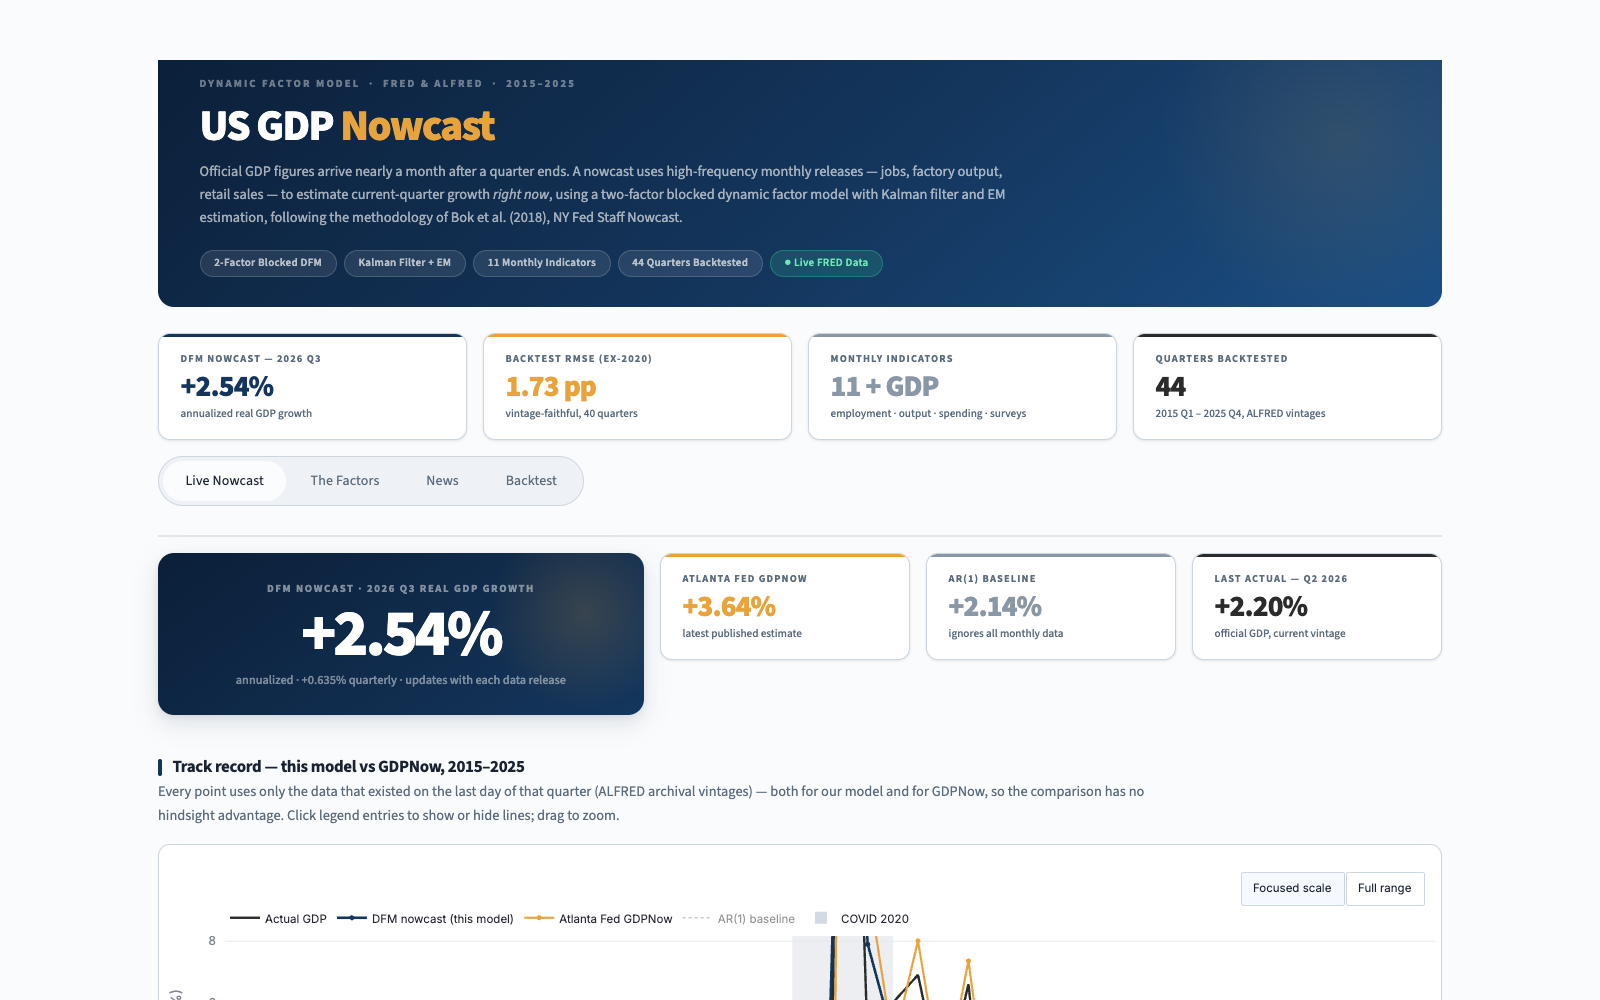
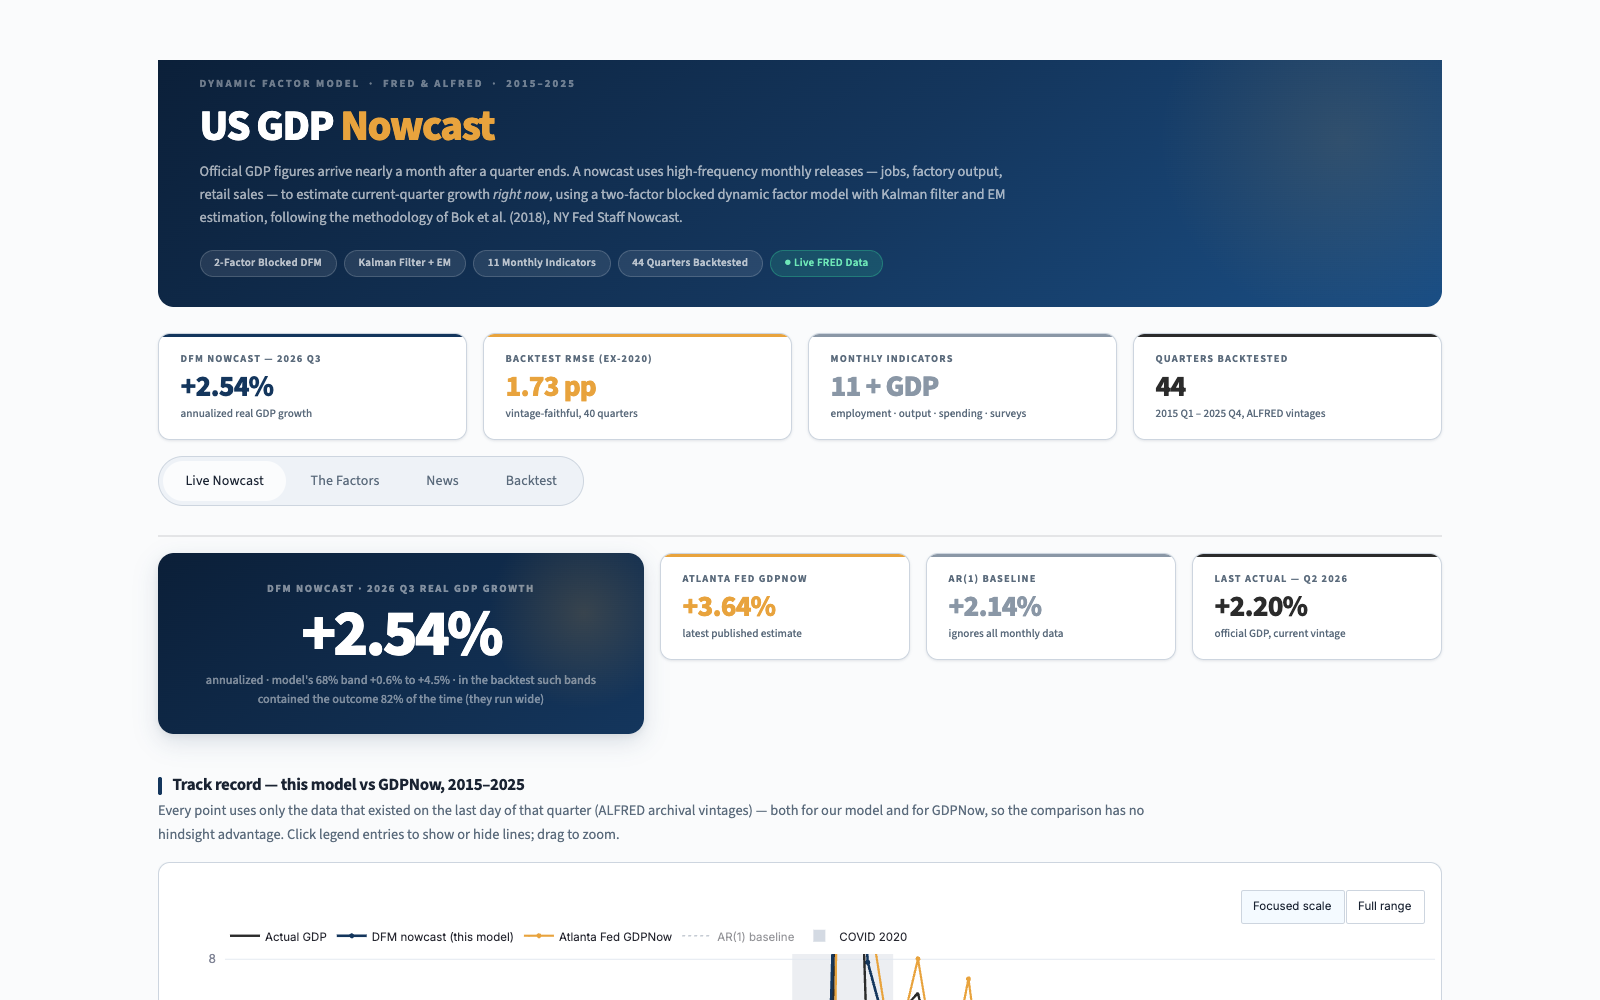
docs+app: lead results with accuracy-as-data-arrives and calibration
README: abstract and section 3 now open with the through-the-quarter
results (448 nowcasts) and the calibration analysis, with the by-period
split marked post-hoc; section 3 renumbered; vintage-reconstruction method
in 2.1; limitations updated (bands don't adapt; plateau by mid-quarter;
the third month adds little — now measured rather than assumed).
progress.md: Phase 8 results. CONTRIBUTING: steps 7-8.
App: hero band wording says which way the bands err; horizon chart drops
empty bins; screenshots regenerated.

diff --git a/app/streamlit_app.py b/app/streamlit_app.py
@@ -188,8 +188,9 @@ def _build_horizon_fig(hz: pd.DataFrame) -> go.Figure:
         r = sub.groupby("bin", observed=False).apply(
             lambda g: float(np.sqrt(((g[col] - g["first_release_ann"]) ** 2).mean()))
             if g[col].notna().sum() >= 10 else np.nan)
+        keep = r.notna().to_numpy()            # empty bins would still stretch the x-axis
         fig.add_trace(go.Scatter(
-            x=centers, y=r.values, name=name, mode="lines+markers",
+            x=centers[keep], y=r.values[keep], name=name, mode="lines+markers",
             line=dict(color=color, width=width), marker=dict(size=6),
             hovertemplate=f"{name}: %{{y:.2f}} pp<extra>%{{x:.0f}} days before release</extra>",
         ))
@@ -673,7 +674,9 @@ def _band_text(nowcast: dict) -> str:
         r = cal[(cal.model == "DFM 2-factor") & (cal.target == "first release")
                 & (cal["sample"] == "ex-2020") & (cal.horizon == "all horizons")]
         if len(r):
-            text += f" · such bands held {r['coverage_68'].iloc[0]:.0%} of the time historically"
+            cov = float(r["coverage_68"].iloc[0])
+            lean = "they run wide" if cov > 0.73 else "they run narrow" if cov < 0.63 else "about right"
+            text += f" · in the backtest such bands contained the outcome {cov:.0%} of the time ({lean})"
     return text
 
 

diff --git a/README.md b/README.md
@@ -15,7 +15,7 @@ Atlanta Fed's GDPNow and three simple real-time baselines.
 > one-step-ahead prediction rather than the smoother. The old headline
 > (RMSE 2.87 pp ex-2020, a "−2 pp vintage bias", "AR(1) wins in calm times")
 > is withdrawn. All numbers below come from the corrected code; the old and
-> new figures are compared side by side in §3.3.
+> new figures are compared side by side in §3.5.
 
 ---
 
@@ -45,6 +45,15 @@ direction of the collapse and rebound; with four such quarters that advantage
 is large (13.7 vs 22.8–36.3 pp RMSE) but not statistically significant. The
 Atlanta Fed's GDPNow, built on far more source data, is clearly more accurate
 (0.98 vs 1.77 pp against first-release GDP, p = 0.01).
+
+Re-running the evaluation **every two weeks through each quarter** (448
+nowcasts, each from that day's archived data) shows where the gap comes from:
+the DFM's error falls from 1.94 to 1.71 pp by mid-quarter and then plateaus,
+while GDPNow keeps improving to 1.02 pp as hard data for the quarter's final
+month arrives. The model's uncertainty bands turn out to be the most
+informative result: its 68% bands contain the outcome 82% of the time overall,
+but **91% in 2015–19, 73% in 2021–25 and 8% in 2020** — a constant-variance
+model is too cautious in calm years and badly overconfident in a crisis.
 
 ---
 
@@ -221,6 +230,14 @@ surveys) — payrolls, industrial production and retail sales for the third mont
 come out the following month. A quarter-end nowcast is therefore built mostly
 from two months of hard data.
 
+**Rebuilding vintages efficiently.** The through-the-quarter evaluation needs
+about 5,000 (series, date) vintages, and each direct ALFRED request takes ~2 s
+under a rate limit. Instead, each series' complete revision history is fetched
+once and the vintage on any date is rebuilt locally — the latest value
+published on or before it, keeping values ALFRED records as explicitly missing
+(e.g., data skipped during the 2025 shutdown). Checked against all 1,036
+vintages previously fetched directly: identical. 13 requests instead of ~5,000.
+
 **Two scoring targets.** Nowcasts are scored against both (a) today's revised
 GDP ("current vintage") and (b) GDP growth as first published — usually the
 advance estimate, ~30 days after the quarter; built from ALFRED using the
@@ -232,12 +249,85 @@ average (ex-2020), which shifts every model's measured bias by the same amount.
 
 ## 3. Results
 
+### 3.1 Accuracy as data arrives (through-the-quarter evaluation)
+
+A nowcast is updated continuously, so the standard way to judge one is how its
+accuracy improves as the quarter's data comes in. Each of the 44 quarters was
+nowcast every 14 days from its first day — plus on its last day — up to the day
+before its GDP was first published: **448 nowcasts**, each from the ALFRED
+vintage of that day (no look-ahead: every date precedes the release, and the
+quarter-end rows reproduce the §3.3 backtest exactly). The design was written
+into `docs/progress.md` before any results were computed.
+
+![Accuracy as data arrives](docs/figures/horizon_rmse.png)
+
+RMSE excluding 2020, scored against GDP as first published (annualized pp):
+
+| Days before GDP release | > 60 | 31–60 | 1–30 |
+|---|---:|---:|---:|
+| **DFM 2-factor (this model)** | **1.94** | **1.71** | **1.76** |
+| DFM 1-factor | 1.99 | 1.79 | 1.84 |
+| Robust AR(1) | 1.71 | 1.63 | 1.71 |
+| Expanding mean | 1.79 | 1.69 | 1.77 |
+| AR(1) | 1.81 | 1.79 | 1.88 |
+| GDPNow | 1.47 | 1.17 | 1.02 |
+| *DM p, DFM vs robust AR(1)* | *0.24* | *0.82* | *0.83* |
+| *DM p, DFM vs GDPNow* | *0.08* | *0.05* | *0.02* |
+
+Diebold–Mariano tests average each quarter's losses first, because several
+nowcasts of the same quarter fall in each window and are not independent.
+Full grid (both targets, both samples): `data/horizon_accuracy.csv`,
+`data/horizon_tests.csv`.
+
+**What it shows.** The DFM gains most of its accuracy by mid-quarter (early in
+the quarter it must forecast two quarters ahead, since the previous quarter's
+GDP isn't out yet) and then stops improving — consistent with §3.4: the hard
+data for the quarter's last month adds little to this model. GDPNow's error
+keeps falling, to 1.02 pp, and its advantage is significant in the last two
+windows. At no horizon does the DFM significantly beat the simple baselines.
+
+### 3.2 Are the uncertainty bands honest?
+
+Each nowcast comes with a standard error from the Kalman smoother, giving 68%
+and 90% bands (these ignore uncertainty in the estimated parameters). A
+calibrated 68% band contains the outcome about 68% of the time.
+
+| Excluding 2020, first-release target | 68% band contained outcome | 90% band | Typical band (±pp) | CRPS |
+|---|---:|---:|---:|---:|
+| > 60 days before release | 85% | 98% | 2.56 | 1.04 |
+| 31–60 days | 80% | 94% | 1.83 | 0.90 |
+| 1–30 days | 79% | 93% | 1.72 | 0.92 |
+| **All horizons** | **82%** | **96%** | 2.16 | 0.98 |
+
+The pre-registered expectation was that the bands would be *too narrow*; they
+are too *wide* overall. A follow-up split by period (post-hoc — chosen after
+seeing the results, `data/calibration_by_period.csv`) explains why:
+
+| Period | Typical band (±pp) | Actual RMSE | 68% band held | 90% band held |
+|---|---:|---:|---:|---:|
+| 2015–2019 | 1.52 | 0.95 | 91% | 100% |
+| 2020 | 2.04 | 15.41 | 8% | 10% |
+| 2021–2025 | 2.78 | 2.41 | 73% | 92% |
+
+The model assumes one fixed level of noise, estimated from its whole sample.
+Before 2020 that sample includes the 2008 recession, so calm-period bands are
+too wide; in 2020 the bands could not widen for an unprecedented shock; after
+2020, with COVID in the sample, they roughly double and become about right.
+This is the standard argument for adding **stochastic volatility** to
+nowcasting models — a natural next step for this project.
+
+![Nowcast path, most recent quarter](docs/figures/fan_chart_example.png)
+
+*Example: how the 2025 Q4 nowcast evolved (chosen by rule: the most recent
+quarter, not the best-looking one). The flat stretch in October–November is the
+2025 government shutdown, when no new monthly data was published.*
+
 Out-of-sample evaluation covers **44 quarters, 2015 Q1 – 2025 Q4**, each nowcast
 made from that quarter's end-of-quarter ALFRED vintage. Results are reported
 both with and without the four 2020 COVID quarters — leaving the catastrophic
 quarters in is part of the point, not something to cherry-pick around.
 
-### 3.1 Real-time accuracy vs. benchmarks
+### 3.3 Quarter-end accuracy vs. benchmarks
 
 All benchmarks use only the GDP data published by each evaluation date:
 **AR(1)** (OLS, the original baseline), **Robust AR(1)** (Huber regression, so
@@ -310,7 +400,7 @@ Full grid (both targets, both DFM specs): `data/evaluation_tests.csv`.
    two-factor model because it was the design chosen before the backtest;
    switching on the basis of these results would be selecting on the test set.
 
-### 3.2 Two diagnostics
+### 3.4 Two diagnostics
 
 **How much is just timing?** `scripts/diagnose_information_timing.py`
 re-estimates each quarter from the *next* quarter-end vintage, when all three
@@ -327,7 +417,7 @@ so part of each nowcast is carried-over GDP dynamics rather than new monthly
 information. This is a specification question, left for future work rather
 than tuned against the backtest.
 
-### 3.3 Before and after the October 2026 fix
+### 3.5 Before and after the October 2026 fix
 
 2-factor model, current-vintage target. The middle column scores the old
 nowcasts against today's GDP to separate the fix from GDP revisions since June.
@@ -355,7 +445,7 @@ differently. All are fixed and covered by regression tests that fail on the old
 code (`tests/test_dfm.py::TestExtractNowcastRealFit`,
 `tests/test_news.py::TestNewsIntegration`).
 
-### 3.4 Charts
+### 3.6 Charts
 
 The Streamlit dashboard renders these interactively; static versions live in
 [`docs/figures/`](docs/figures/).
@@ -413,6 +503,8 @@ python scripts/run_phase4_backtest.py           # 1-factor → data/backtest_res
 python scripts/run_phase4_backtest_2factor.py   # 2-factor → data/backtest_results_2factor.csv
 python scripts/evaluate_backtest.py             # scorecard → data/evaluation_*.csv
 python scripts/precompute_news_example.py       # dashboard's worked news example
+python scripts/run_horizon_backtest.py          # 448 through-the-quarter nowcasts (~15 min)
+python scripts/evaluate_horizon.py              # horizon accuracy, calibration, figures
 ```
 
 The first run downloads ~530 ALFRED vintage files (rate-limited, with
@@ -438,17 +530,20 @@ scripts/     backtests, evaluation, diagnostics, data prep, screenshots
 
 ## 5. Limitations
 
+- **Uncertainty bands don't adapt.** They are too wide in calm periods and far
+  too narrow in 2020 (§3.2); the model has a single, constant noise level.
+- **Accuracy plateaus by mid-quarter**, while GDPNow keeps improving (§3.1).
 - **No demonstrated edge in normal times.** Ex-2020 the DFM is statistically
-  indistinguishable from a robust AR(1) or the historical mean (§3.1), and
+  indistinguishable from a robust AR(1) or the historical mean (§3.3), and
   GDPNow is significantly better.
 - **2020 is both its best and worst period.** The worst miss is 2020 Q2 (nowcast
   −8.8% vs. actual −32.8%, a 24 pp error), yet it was the only model here to get
   the direction of 2020 right. Four quarters cannot establish a reliable edge.
-- **Quarter-end information set.** At the evaluation date only 2 of 11 series
-  are published for the quarter's third month, and the nowcast leans on the
-  previous quarter's data (§3.2). Nowcasts made later — after month-3 data but
-  before the GDP release — would be more accurate; this design doesn't
-  evaluate them.
+- **The third month adds little.** At quarter-end only 2 of 11 series have
+  third-month data, and the nowcast leans on the previous quarter's data
+  (§3.4). Nowcasts made after the quarter ends, once that data is published,
+  are no more accurate for this model (§3.1) — unlike GDPNow, which builds GDP
+  up from its components and keeps improving.
 - **FRED-only data excludes licensed series.** The ISM/PMI surveys, among the
   most informative monthly indicators, are not on FRED (removed 2014). Regional
   Fed surveys substitute but are noisier. The panel is 11 monthly series;

diff --git a/docs/progress.md b/docs/progress.md
@@ -286,6 +286,22 @@ Design fixed BEFORE any results were computed (commit this entry first):
 - Addendum (before running): each quarter's last day is added to the 14-day grid so
   every quarter also has the Phase 7 quarter-end nowcast (spot-check + continuity).
 
+### Phase 8 results (2026-10-17)
+- [x] 448 nowcasts, 0 failed fits. Quarter-end rows equal Phase 7 exactly (all models);
+      all evaluation dates precede the GDP release.
+- [x] Vintages rebuilt from one revision-history call per series (13 calls vs ~5,000);
+      validated identical to 1,036 directly-fetched vintages. Pitfall found: published
+      blanks (Oct 2025 shutdown) must be kept — groupby().last() silently skips them.
+- RMSE ex-2020 vs first release (>60 / 31–60 / 1–30 days before release):
+  DFM 2f 1.94 / 1.71 / 1.76; robust AR(1) 1.71 / 1.63 / 1.71; mean 1.79 / 1.69 / 1.77;
+  GDPNow 1.47 / 1.17 / 1.02. DFM vs GDPNow DM p 0.08 / 0.05 / 0.02; vs robust AR(1)
+  p 0.24 / 0.82 / 0.83. DFM plateaus by mid-quarter; no significant edge over baselines.
+- Calibration (ex-2020, first release): 68%/90% bands cover 82%/96% — too wide, opposite
+  of the pre-registered expectation. POST-HOC split: 2015–19 91%/100% (±1.52 vs RMSE
+  0.95); 2020 8%/10%; 2021–25 73%/92% (±2.78 vs RMSE 2.41). Constant-variance model →
+  candidate next step: stochastic volatility (not implemented; would be a new,
+  pre-registered spec).
+
 ## Notes / Decisions Log
 (Add dated notes here as decisions are made, e.g. "2026-06-15: reduced to 3
 factors due to slow EM convergence with 5.")

diff --git a/CONTRIBUTING.md b/CONTRIBUTING.md
@@ -31,6 +31,16 @@ Order matters — each step reads the previous step's output:
 | 5 | `python scripts/precompute_news_example.py` | `data/news_example.csv`, `data/news_example_meta.json` |
 | 6 | `streamlit run app/streamlit_app.py --server.port 8599`, then `python scripts/screenshot_tabs.py after_redesign` | `docs/figures/after_redesign_tab{1-4}.png` |
 
+Through-the-quarter evaluation (after step 2):
+
+| Step | Command | Writes |
+|---|---|---|
+| 7 | `python scripts/run_horizon_backtest.py` | `data/horizon_backtest.csv` (448 nowcasts, ~15 min, resumable) |
+| 8 | `python scripts/evaluate_horizon.py` | `data/horizon_*.csv`, `data/calibration*.csv`, `docs/figures/horizon_rmse.png`, `fan_chart_example.png`, `pit_histogram.png` |
+
+Step 7 fetches each series' revision history once (`data/alfred/*_all_releases.parquet`)
+and rebuilds every needed vintage locally. Delete those files to refresh them.
+
 Optional diagnostic: `python scripts/diagnose_information_timing.py`.
 
 **Data and caching.** Each backtest quarter uses the ALFRED vintage from the
